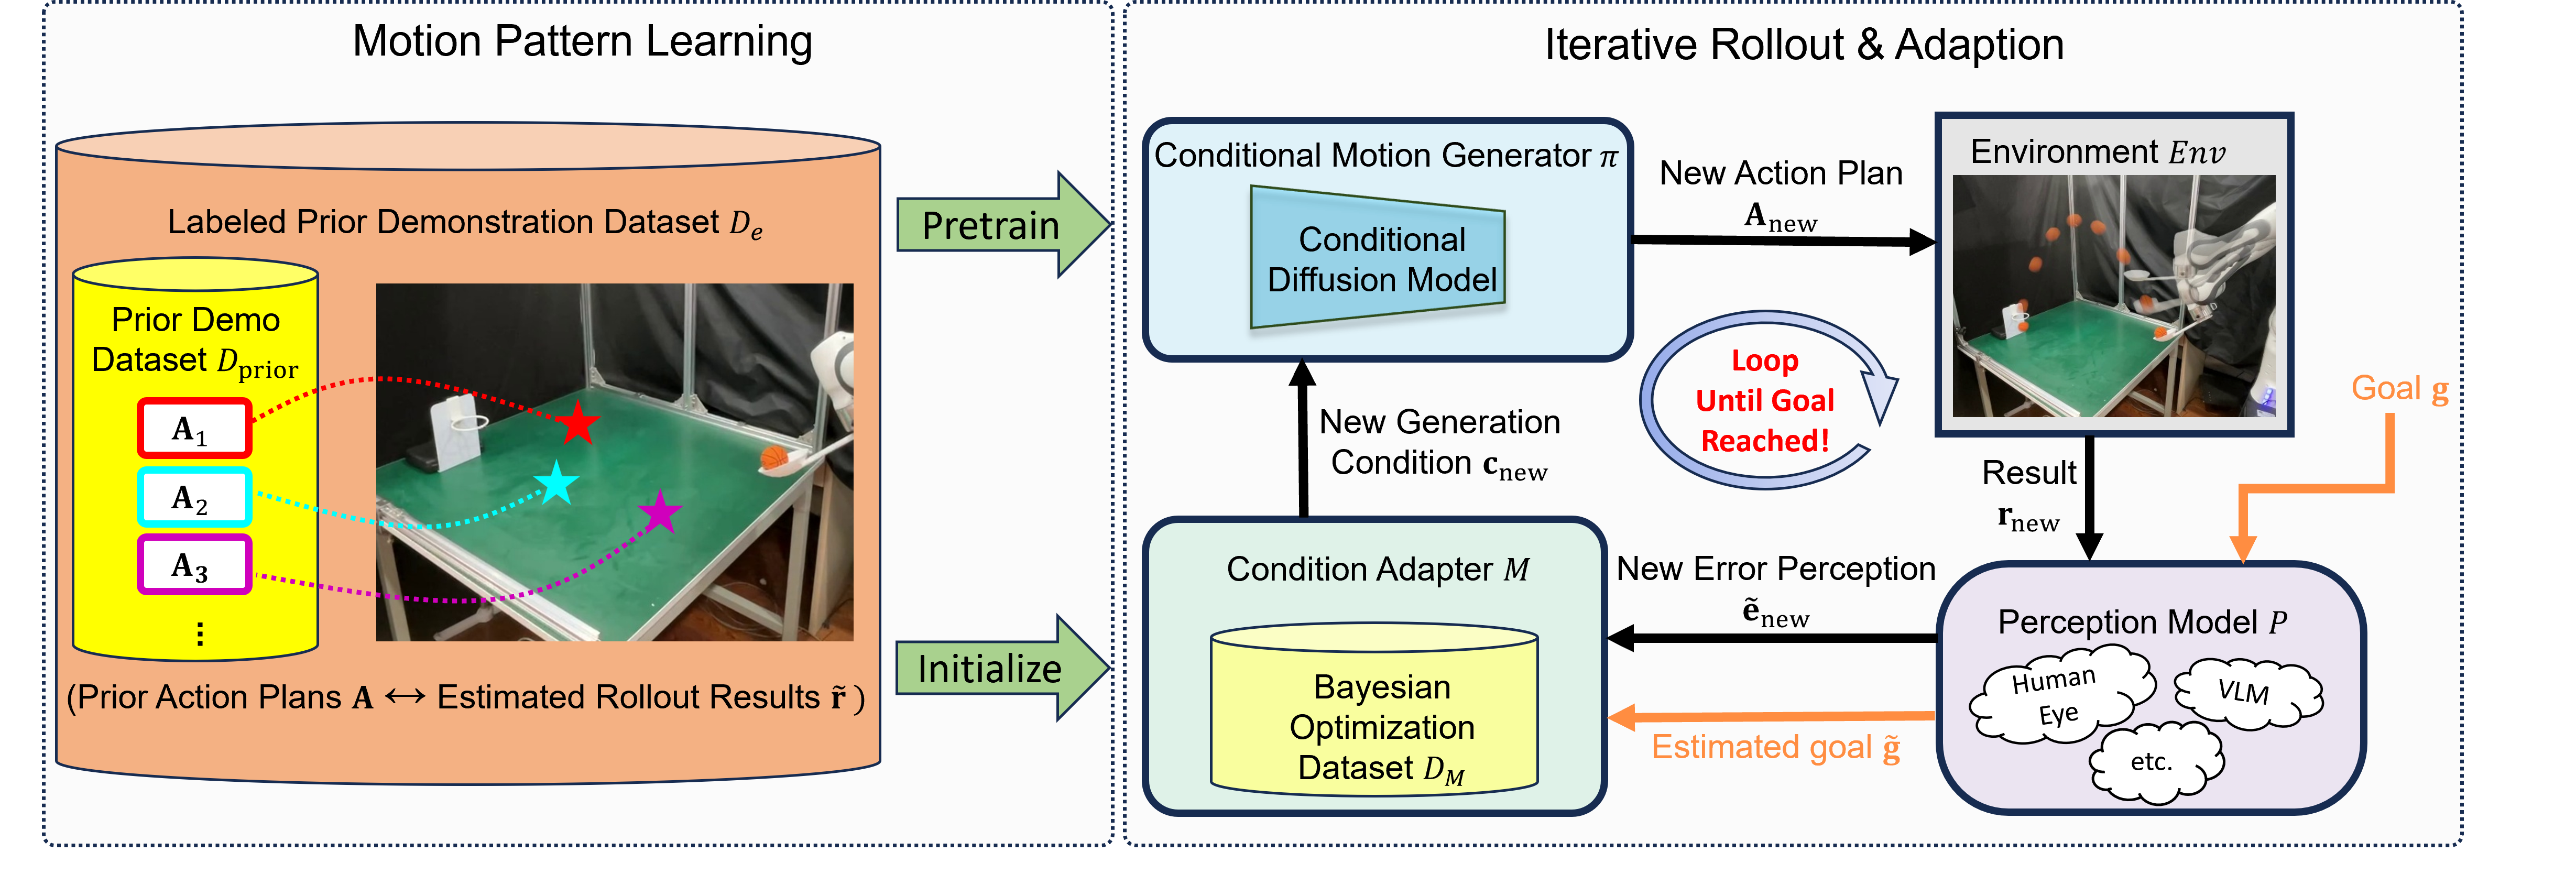
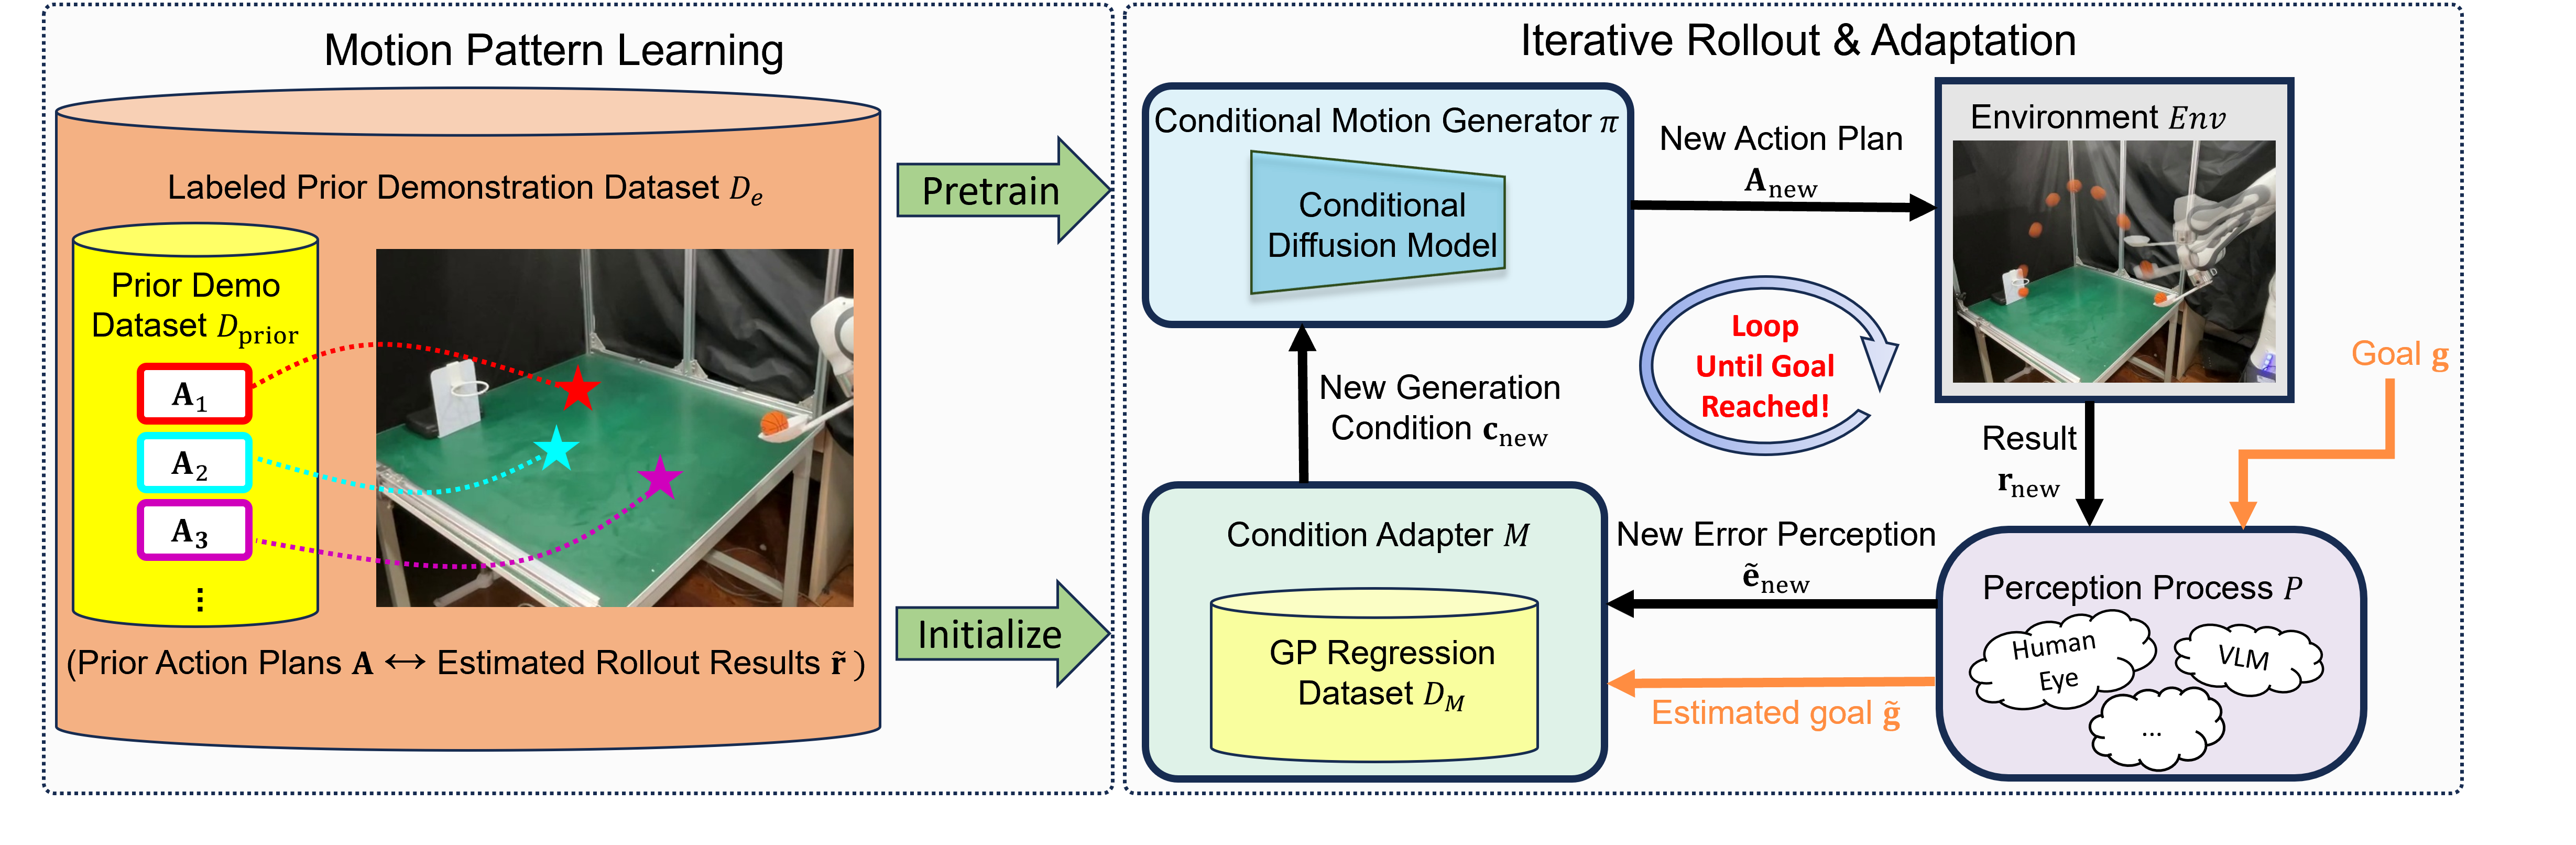
IROS2026

diff --git a/index.html b/index.html
@@ -4,7 +4,7 @@
 <head>
   <meta charset="utf-8">
   <meta name="description"
-    content="Adaptive Diffusion Action Planning (ADAP): Mastering Agile Tasks with Limited Trials">
+    content="PR">
   <meta name="viewport" content="width=device-width, initial-scale=1">
   <title>ADAP</title>
 
@@ -67,22 +67,25 @@
       <div class="container is-max-desktop">
         <div class="columns is-centered">
           <div class="column has-text-centered">
-            <h1 class="title is-2 publication-title">Prior Reinforce: <br>Mastering Agile Tasks with Limited Trials</h1>
+            <h1 class="title is-2 publication-title">Prior Reinforce: Goal-Conditioned Dynamic Manipulation with Limited Trials</h1>
+            <div class="has-text-centered mb-4">
+              <img src="./static/materials/iros26_logo_w.webp" alt="IROS 2026 logo" style="max-height: 70px; width: auto; opacity: 0.95;">
+            </div>
             <div class="container">
               <div class="columns is-centered">
                 <div class="column is-10">
                   <div class="is-size-5 publication-authors has-text-centered">
                     <span class="author-block">
-                      <a href="https://scholar.google.com/citations?user=slFtxbMAAAAJ&hl=en">Yihang Hu</a><sup>1</sup>,  
+                      <a href="https://scholar.google.com/citations?user=slFtxbMAAAAJ&hl=en">Yihang Hu</a><sup>1,2</sup>,  
                     </span>
                     <span class="author-block">
                       <a href="https://spyzss.github.io/reven.github.io/">Pingyue Sheng</a><sup>1</sup>,
                     </span>
                     <span class="author-block">
-                      <a href="https://scholar.google.com/citations?user=0ROQMVcAAAAJ&hl=en/">Yuyang Liu</a><sup>1</sup>,
+                      <a href="https://scholar.google.com/citations?user=0ROQMVcAAAAJ&hl=en/">Yuyang Liu</a><sup>1,2</sup>,
                     </span>
                     <span class="author-block">
-                      <a href="https://shengjiewang-jason.github.io/">Shengjie Wang</a><sup>1,2,3</sup>,
+                      <a href="https://shengjiewang-jason.github.io/">Shengjie Wang</a><sup>1,2</sup>,
                     </span>
                     <span class="author-block">
                       <a href="https://yang-gao.weebly.com/">Yang Gao</a><sup>1,2,3</sup>
@@ -92,7 +95,7 @@
               </div>
             </div>
             <div class="is-size-5 publication-authors">
-              <span class="author-block"><sup>1</sup>Tsinghua University, <sup>2</sup>Shanghai AI Laboratory, <sup>3</sup>Shanghai Qi Zhi Institute</span><br>
+              <span class="author-block"><sup>1</sup>Tsinghua University, <sup>2</sup>Shanghai Qi Zhi Institute, <sup>3</sup>Spirit AI</span><br>
             </div>
 
             <div class="column has-text-centered">
@@ -178,13 +181,7 @@
             </div>
           </div> -->
           <p style="text-align: justify;">
-            Embodied robots nowadays can already handle many real-world manipulation tasks. 
-            However, certain other real-world tasks (e.g., shooting a basketball into a hoop) are highly agile and require high execution precision, presenting additional challenges for methods primarily designed for quasi-static manipulation tasks. 
-            This leads to increased efforts in costly data collection, laborious reward design, or complex motion planning. 
-            Such tasks, however, are far less challenging for humans. Say a novice basketball player typically needs only ~10 attempts to make their first successful shot, by roughly imitating a motion prior and then iteratively adjusting their motion based on the past outcomes. 
-            Inspired by this human learning paradigm, we propose the <b> Prior Reinforce (P.R.) </b> algorithm, a simple & scalable approach which iteratively refines its action plan by few real-world trials within a learned prior motion pattern, until reaching a specific goal. 
-            Experiments demonstrated that Prior Reinforce can learn and accomplish a wide range of goal-conditioned agile dynamic tasks with human-level precision and efficiency directly in real-world, such as throwing a basketball into the hoop in fewer than 10 trials.
-          </p>
+            Embodied robots have achieved strong performance in many real-world manipulation tasks, yet agile dynamic manipulation remains challenging due to high sensitivity to motion parameters and sparse outcome-level feedback. Tasks such as shooting a basketball into a hoop require precise control of fast open-loop motions, where small trajectory variations can lead to large outcome deviations, making data-efficient adaptation difficult for existing methods that rely on large-scale interaction, reward engineering, or accurate dynamic modeling. We propose Prior Reinforce (P.R.), a simple and practical framework for goal-conditioned dynamic manipulation. The method first learns a structured motion manifold from a small set of demonstrations using a conditional diffusion model, and then adapts motions toward new goals through feedback-driven optimization in a low-dimensional condition space. By separating motion generation from outcome-driven adaptation, the framework enables efficient refinement using only a small number of real-world trials under noisy perception. Experiments on multiple real-world dynamic manipulation tasks demonstrate that P.R. reliably achieves new goals within as few as ten total trials while remaining robust to perception noise and hardware uncertainty, suggesting a practical approach for low-trial real-world robot adaptation.
         </div>
       </div>
     </div>
@@ -257,10 +254,10 @@
         <div style="position: relative;">
             <pre>
               <code id="bibtex-code">
-                @misc{hu2025priorreinforcemasteringagile,
-                      title={Prior Reinforce: Mastering Agile Tasks with Limited Trials}, 
+                @misc{hu2026priorreinforcegoalconditioneddynamic,
+                      title={Prior Reinforce: Goal-Conditioned Dynamic Manipulation with Limited Trials}, 
                       author={Yihang Hu and Pingyue Sheng and Yuyang Liu and Shengjie Wang and Yang Gao},
-                      year={2025},
+                      year={2026},
                       eprint={2505.21916},
                       archivePrefix={arXiv},
                       primaryClass={cs.RO},